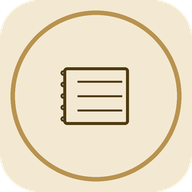
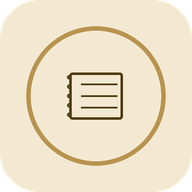
הקטנת הטבעת באייקון היומן כדי שתתאים בגודל לשאר האפליקציות
הטבעת הייתה קרובה מדי לקצה, מה שגרם לעיגול להיראות גדול יותר
מהאייקונים של אפליקציית הלקוחות ופאנל הניהול. עכשיו היא באותו
יחס בדיוק (אזור הבטיחות של אייקון maskable).

Claude-Session: https://claude.ai/code/session_01LiPx6viVKFwxj3wPD1KrUJ

Changed region(s): [[0.0312, 0.0312, 0.9688, 0.9688], [0.125, 0.125, 0.875, 0.875], [0.3125, 0.3438, 0.6875, 0.6562]]

diff --git a/journal-sw.js b/journal-sw.js
@@ -2,12 +2,12 @@
 // העדכנית מהאינטרנט. משתמש בגרסה השמורה (cache) רק אם אין בכלל אינטרנט.
 // זה מונע את הבעיה שבה עדכונים לא מגיעים גם אחרי רענון קשיח.
 
-const CACHE_NAME = 'clinic-journal-v5'; // ✏ כל פעם שמעדכנים באמת את journal.html, כדאי להעלות את המספר כאן ב-1
+const CACHE_NAME = 'clinic-journal-v6'; // ✏ כל פעם שמעדכנים באמת את journal.html, כדאי להעלות את המספר כאן ב-1
 const FILES_TO_CACHE = [
   './journal.html',
   './journal-manifest.json',
-  './icon-192.png?v=2',
-  './icon-512.png?v=2'
+  './icon-192.png?v=3',
+  './icon-512.png?v=3'
 ];
 
 self.addEventListener('install', (event) => {

diff --git a/journal.html b/journal.html
@@ -9,7 +9,7 @@
 <!-- ✏ PWA - מאפשר "התקנה" של הדף כאפליקציה מהדפדפן -->
 <link rel="manifest" href="journal-manifest.json">
 <meta name="theme-color" content="#B8934F">
-<link rel="apple-touch-icon" href="icon-192.png?v=2">
+<link rel="apple-touch-icon" href="icon-192.png?v=3">
 
 <link rel="preconnect" href="https://fonts.googleapis.com">
 <link rel="preconnect" href="https://fonts.gstatic.com" crossorigin>
